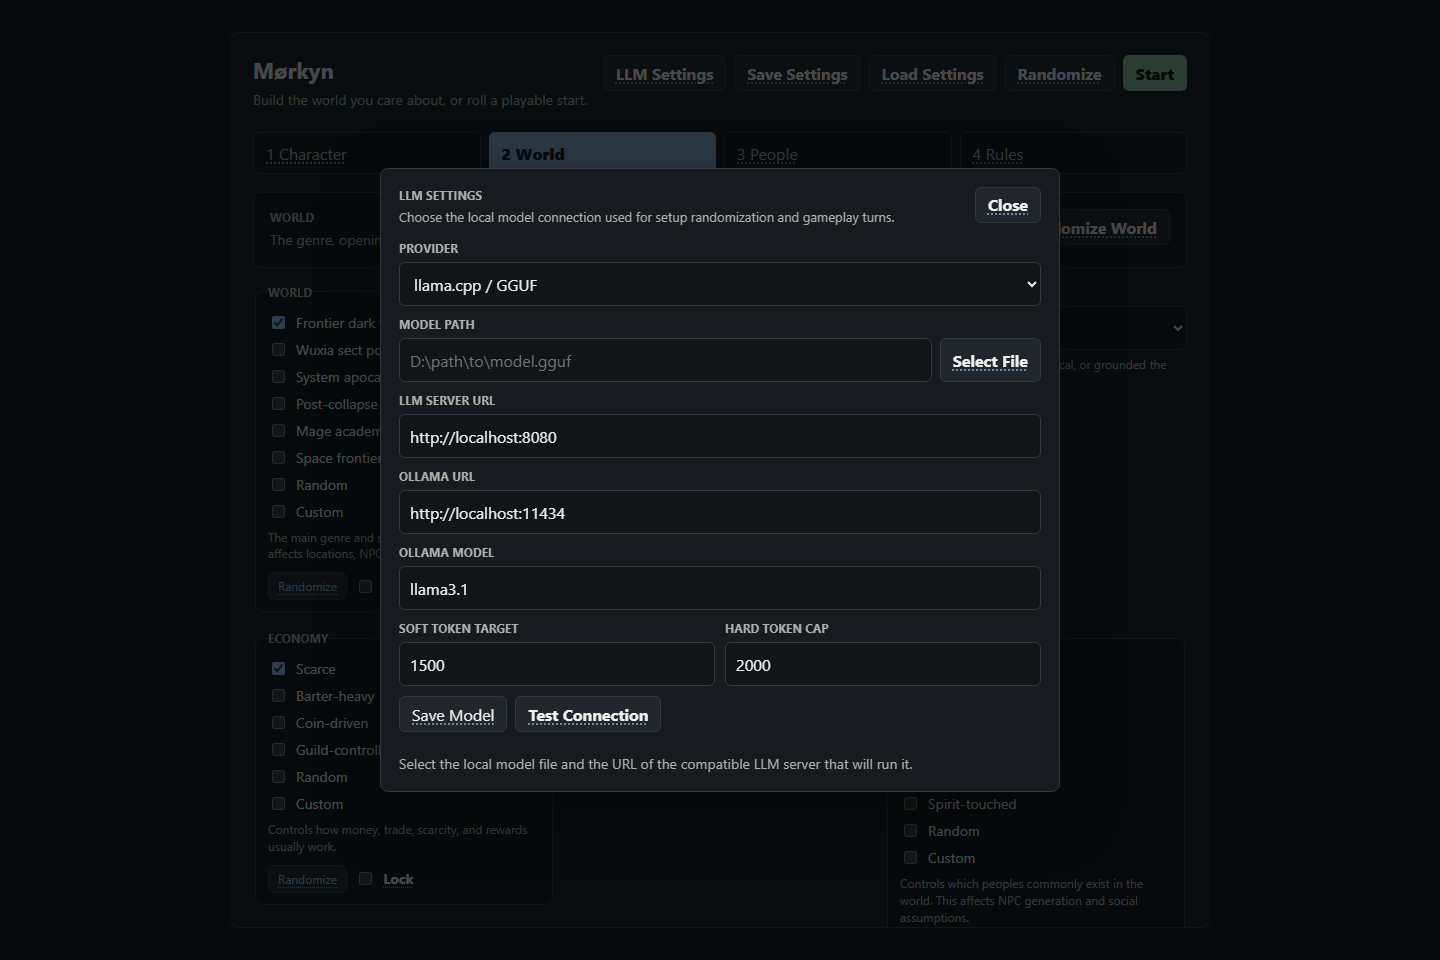
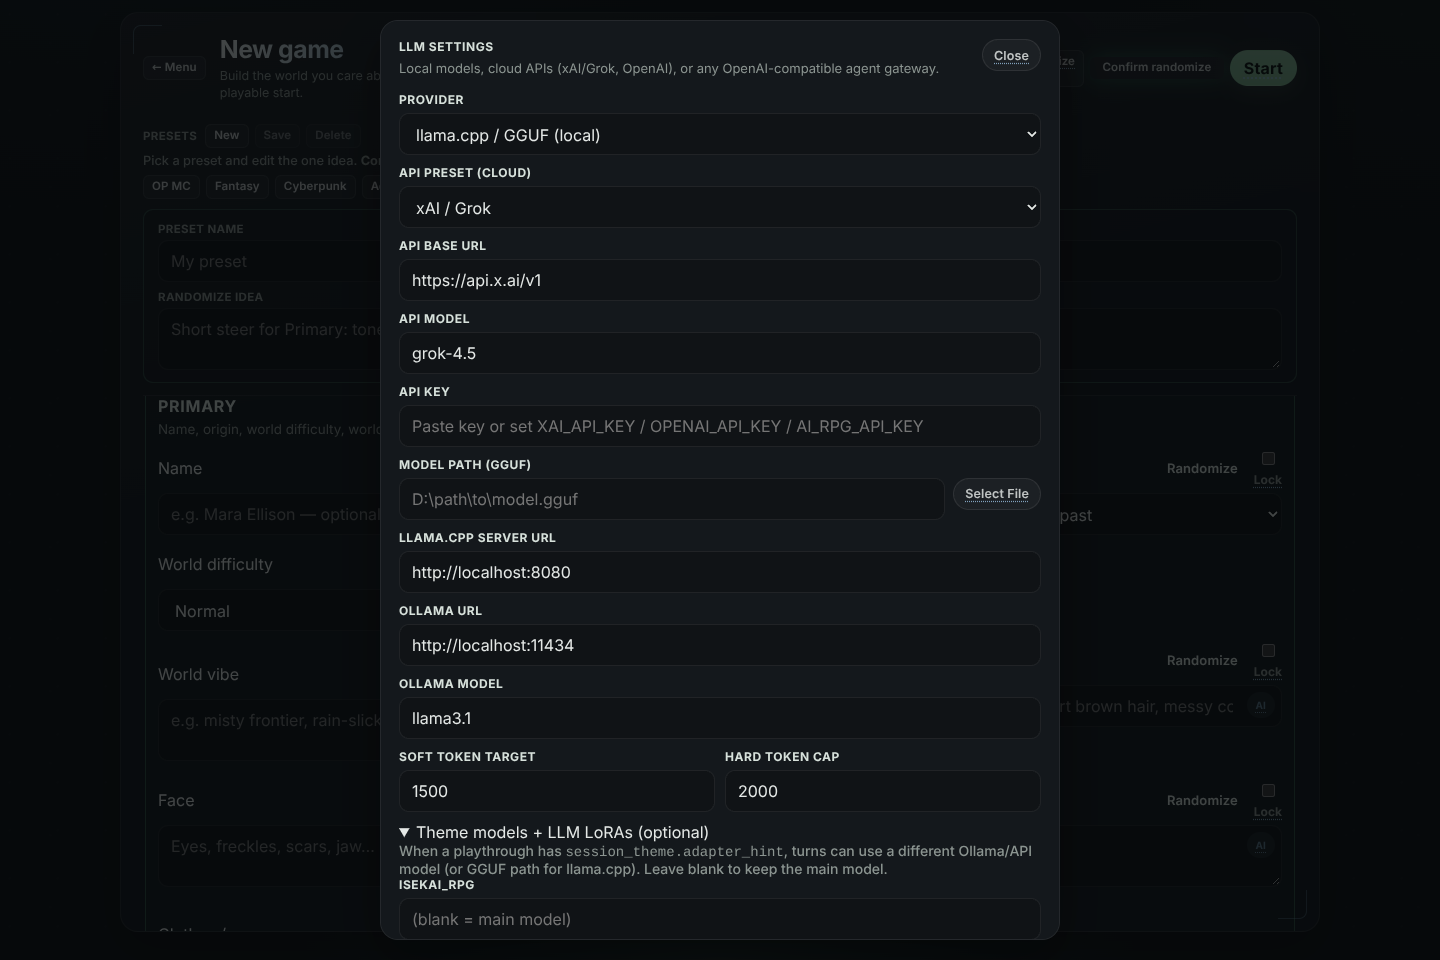
docs: refresh README screenshots for 0.10.0-wip

diff --git a/README.md b/README.md
@@ -59,13 +59,13 @@ python benchmarks/run_dual_role_playtest.py
 
 ## Interface
 
-| Setup | Play | Model / context health |
+| Main menu | Play | Quests |
 | --- | --- | --- |
-| <img src="Media/screen-setup.png" alt="Mørkyn setup" width="100%"> | <img src="Media/screen-play.png" alt="Mørkyn play" width="100%"> | <img src="Media/screen-play-model.png" alt="Mørkyn model tab" width="100%"> |
+| <img src="Media/screen-menu.png" alt="Mørkyn main menu" width="100%"> | <img src="Media/screen-play.png" alt="Mørkyn play view with scene and map" width="100%"> | <img src="Media/screen-play-quests.png" alt="Mørkyn quest log" width="100%"> |
 
-| World setup | LLM settings | Compact mode |
+| New game setup | LLM settings | Play menu |
 | --- | --- | --- |
-| <img src="Media/screen-setup-world.png" alt="Mørkyn world setup" width="100%"> | <img src="Media/screen-model-settings.png" alt="Mørkyn LLM settings" width="100%"> | <img src="Media/screen-play-compact.png" alt="Mørkyn compact mode" width="100%"> |
+| <img src="Media/screen-setup.png" alt="Mørkyn new game setup" width="100%"> | <img src="Media/screen-model-settings.png" alt="Mørkyn LLM settings" width="100%"> | <img src="Media/screen-play-menu.png" alt="Mørkyn play menu" width="100%"> |
 
 Assets: [`Media/`](Media/).
 
